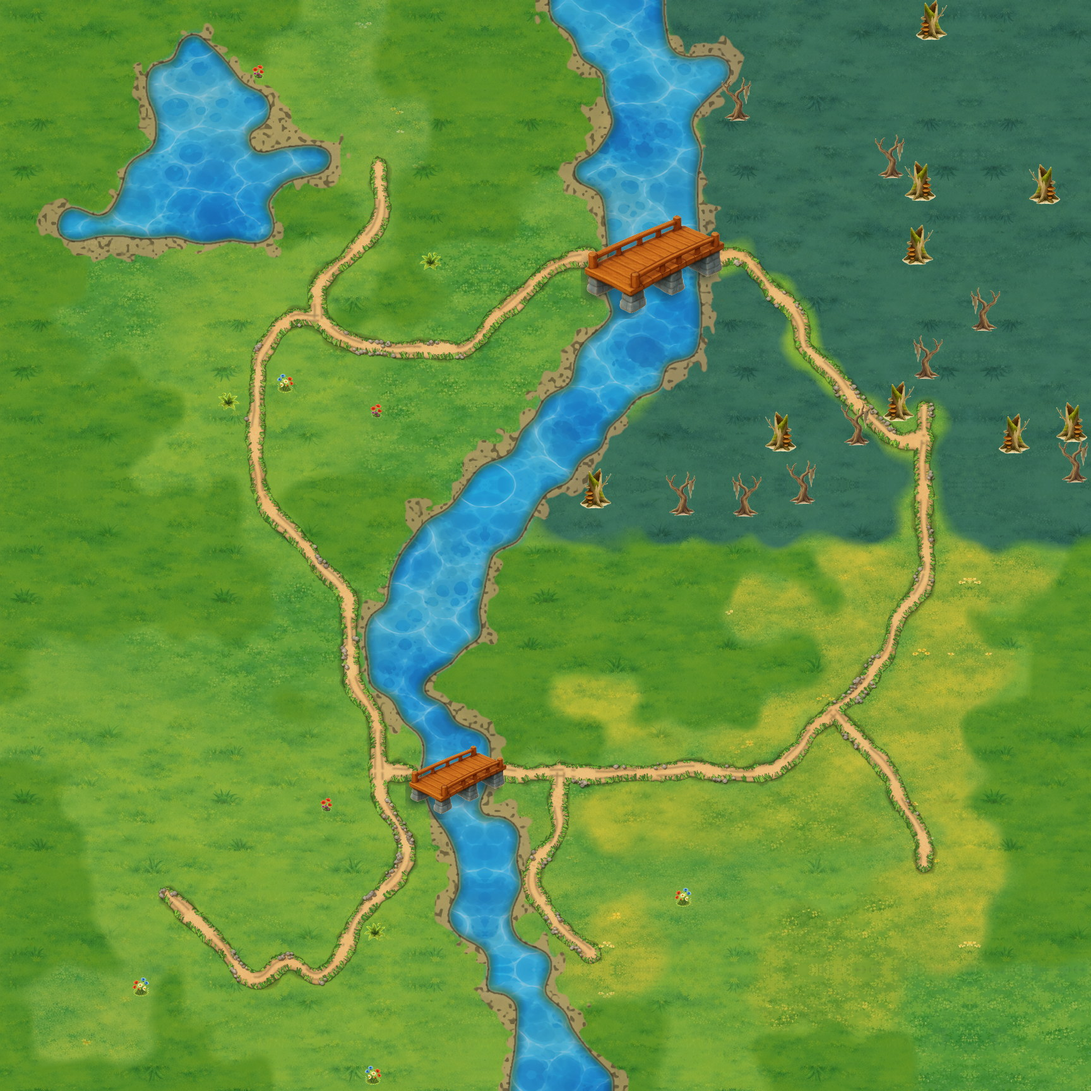
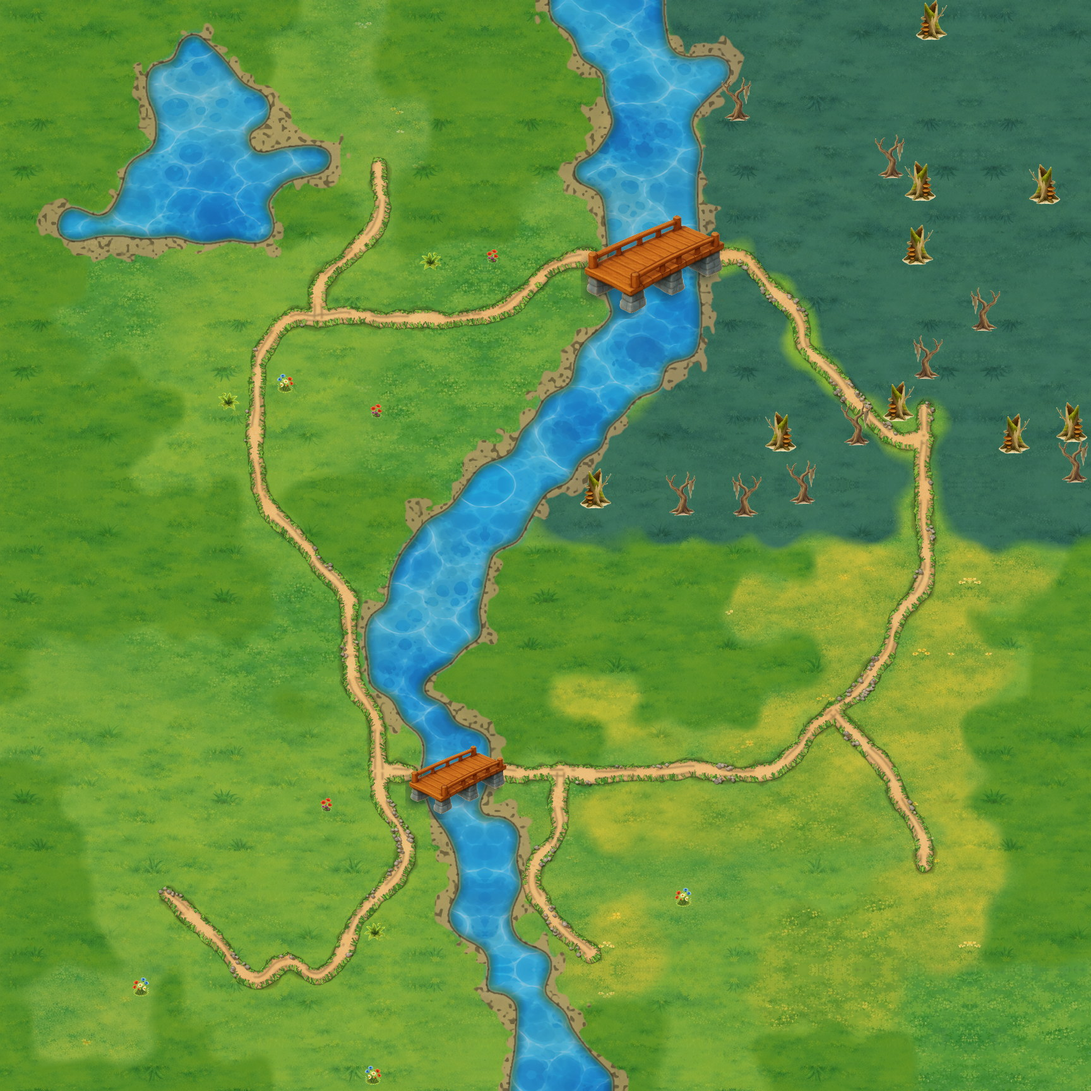
Polana: runda 18 planszy — silna straż pilnuje bogatej północy, przełęcz fortu średnia, północna łąka rozładowana
Trasa do fortu słaba → słaba → średnia, most północny (24,8) silny
z ostrogą skał (26–27,5–7) odcinającą zakątek wieży i artefaktu.
Bez wiatraka (18,11) i wozu (5,12); znaleziska odsunięte od zamku,
kupka za mostem rozbita. 59 obiektów co 10,1 pola, bez bitwy 24 %,
symulacja misji 1: 9/9, średnio dzień 18,3.

Claude-Session: https://claude.ai/code/session_01BGiaZhgTwDgLbUxsH7vpi6

diff --git a/src/data/plansza-teren-polana.ts b/src/data/plansza-teren-polana.ts
@@ -10,16 +10,16 @@
 export const TEREN = [
   'TTTTTTTTTT###TTTTT~~~~##############',
   'TTTTTT~TT###TTTTTTT~~~##############',
-  'TTTTT~~~.###TTTTTTTT~~~~############',
+  'TTTTT~~~T###TTTTTTTT~~~~############',
   'TTTTT~~~~.....TTTTTT~~~bbbb####bbbb#',
   'TTTTT~~~......TTTTTT~~~bbbb####bbbb#',
-  'TTTT~~~~~~~.=.TTTTT~~~~bbbbbbbbbbbb#',
-  'TTTT~~~~~TTT=TTTT..T~~~bbbbbbbbbb###',
-  'TT~~~~~~~TTT=TTTT...~~~bbbbbbbbbb###',
+  'TTTT~~~~~~~.=.TTTTT~~~~bbb##bbbbbbb#',
+  'TTTT~~~~~TTT=TTTT..T~~~bbb##bbbbb###',
+  'TT~~~~~~~TTT=TTTT...~~~bbb##bbbbb###',
   'TTT........=.T....=======bbbbbbbb###',
-  'TTT.......=.TTT..=..~~~bb=bbbbbbb###',
-  'TT.......==T.T..=...~~~bbb=bbbbbb###',
-  'TTT.....=..=====...~~~~bbb=bbbbbb###',
+  'TTT.......=......=..~~~bb=bbbbbbb###',
+  'TT.......========...~~~bbb=bbbbbb###',
+  'TTT.....=..........~~~~bbb=bbbbbb###',
   'TT.TT...=..........~~~bbbbb=bbbbb###',
   'TTTTTT..=.........~~~bbbbbbb=b=bb###',
   'TTTTT...=........~~~bbbbbbbbb==bb###',
@@ -27,7 +27,7 @@ export const TEREN = [
   'TTTTTTTT=TTTTTT~~~############=#####',
   'TTTTTTTT.=TTTT~~~#############=#####',
   'TTTTTTTTT.=TT~~~TTTTTTTTTTTjjj=jjjjT',
-  'TTTTTTTTT..=.~~~TTTTTTTTjjjTjj=jjjjT',
+  'TTTTTTTTT..=.~~~TTTTTTTTjjjjjj=jjjjT',
   'TTTTTTTTT..=~~~~TTTTTTTTjjjjj=jjTTTT',
   'T..........=~~~TTTTTTTTTTTTjj=jjjjTT',
   'T..........=~~TTTTjjjTTTTTTj=jjjjjTT',
@@ -79,8 +79,8 @@ export const ROZSTAWIENIE: Array<{
   klucz?: string;
 }> = [
   { x: 12, y: 33, rodzaj: 'kopalnia', strefa: 'dom', surowiec: 'jagoda' },
-  { x: 11, y: 27, rodzaj: 'surowiec', strefa: 'dom', surowiec: 'odlamek' },
-  { x: 11, y: 28, rodzaj: 'skrzynia', strefa: 'dom' },
+  { x: 13, y: 24, rodzaj: 'surowiec', strefa: 'dom', surowiec: 'odlamek' },
+  { x: 11, y: 24, rodzaj: 'skrzynia', strefa: 'dom' },
   { x: 5, y: 28, rodzaj: 'kopalnia', strefa: 'dom', surowiec: 'odlamek' },
   { x: 2, y: 21, rodzaj: 'skrzynia', strefa: 'dom' },
   { x: 8, y: 34, rodzaj: 'surowiec', strefa: 'dom', surowiec: 'pokeball' },
@@ -89,10 +89,10 @@ export const ROZSTAWIENIE: Array<{
   { x: 25, y: 20, rodzaj: 'kopalnia', strefa: 'pogranicze', surowiec: 'kamien' },
   { x: 8, y: 16, rodzaj: 'potwor', strefa: 'pogranicze', sila: 'slaby' },
   { x: 17, y: 26, rodzaj: 'potwor', strefa: 'pogranicze', sila: 'slaby' },
-  { x: 24, y: 8, rodzaj: 'potwor', strefa: 'wroga', sila: 'sredni' },
+  { x: 24, y: 8, rodzaj: 'potwor', strefa: 'wroga', sila: 'silny' },
   { x: 4, y: 32, rodzaj: 'potwor', strefa: 'dom', sila: 'slaby' },
   { x: 27, y: 20, rodzaj: 'potwor', strefa: 'pogranicze', sila: 'slaby' },
-  { x: 30, y: 16, rodzaj: 'potwor', strefa: 'wroga', sila: 'silny' },
+  { x: 30, y: 16, rodzaj: 'potwor', strefa: 'wroga', sila: 'sredni' },
   { x: 12, y: 7, rodzaj: 'potwor', strefa: 'pogranicze', sila: 'slaby' },
   { x: 31, y: 5, rodzaj: 'potwor', strefa: 'wroga', sila: 'sredni' },
   { x: 10, y: 4, rodzaj: 'kopalnia', strefa: 'pogranicze', surowiec: 'pokeball' },
@@ -100,24 +100,21 @@ export const ROZSTAWIENIE: Array<{
   { x: 12, y: 3, rodzaj: 'skrzynia', strefa: 'pogranicze' },
   { x: 6, y: 9, rodzaj: 'budynek', strefa: 'pogranicze', budynek: 'zrodlo' },
   { x: 3, y: 10, rodzaj: 'budynek', strefa: 'pogranicze', budynek: 'chatka' },
-  { x: 5, y: 12, rodzaj: 'budynek', strefa: 'pogranicze', budynek: 'woz' },
   { x: 5, y: 14, rodzaj: 'skrzynia', strefa: 'pogranicze' },
   { x: 4, y: 15, rodzaj: 'surowiec', strefa: 'pogranicze', surowiec: 'jagoda' },
   { x: 10, y: 13, rodzaj: 'budynek', strefa: 'pogranicze', budynek: 'oboz-treningowy' },
-  { x: 10, y: 11, rodzaj: 'skrzynia', strefa: 'pogranicze' },
   { x: 9, y: 12, rodzaj: 'surowiec', strefa: 'pogranicze', surowiec: 'odlamek' },
   { x: 15, y: 12, rodzaj: 'budynek', strefa: 'pogranicze', budynek: 'drzewo-wiedzy' },
   { x: 13, y: 15, rodzaj: 'budynek', strefa: 'pogranicze', budynek: 'gniazdo' },
-  { x: 15, y: 9, rodzaj: 'surowiec', strefa: 'pogranicze', surowiec: 'kamien' },
-  { x: 16, y: 9, rodzaj: 'skrzynia', strefa: 'pogranicze' },
-  { x: 18, y: 11, rodzaj: 'budynek', strefa: 'pogranicze', budynek: 'wiatrak' },
+  { x: 18, y: 6, rodzaj: 'skrzynia', strefa: 'pogranicze' },
+  { x: 17, y: 7, rodzaj: 'surowiec', strefa: 'pogranicze', surowiec: 'kamien' },
   { x: 19, y: 30, rodzaj: 'budynek', strefa: 'pogranicze', budynek: 'gniazdo' },
   { x: 18, y: 23, rodzaj: 'budynek', strefa: 'pogranicze', budynek: 'wieza-obserwacyjna' },
   { x: 25, y: 23, rodzaj: 'skrzynia', strefa: 'pogranicze' },
   { x: 25, y: 24, rodzaj: 'surowiec', strefa: 'pogranicze', surowiec: 'odlamek' },
   { x: 26, y: 27, rodzaj: 'jasnowidz', strefa: 'pogranicze' },
   { x: 31, y: 28, rodzaj: 'skrzynia', strefa: 'pogranicze' },
-  { x: 31, y: 29, rodzaj: 'artefakt', strefa: 'pogranicze' },
+  { x: 31, y: 29, rodzaj: 'surowiec', strefa: 'pogranicze', surowiec: 'jagoda' },
   { x: 32, y: 21, rodzaj: 'surowiec', strefa: 'pogranicze', surowiec: 'pokeball' },
   { x: 33, y: 21, rodzaj: 'surowiec', strefa: 'pogranicze', surowiec: 'jagoda' },
   { x: 31, y: 24, rodzaj: 'budynek', strefa: 'pogranicze', budynek: 'arena' },
@@ -128,12 +125,13 @@ export const ROZSTAWIENIE: Array<{
   { x: 26, y: 30, rodzaj: 'artefakt', strefa: 'pogranicze' },
   { x: 33, y: 19, rodzaj: 'budynek', strefa: 'pogranicze', budynek: 'ranczo' },
   { x: 25, y: 10, rodzaj: 'artefakt', strefa: 'wroga' },
-  { x: 24, y: 10, rodzaj: 'surowiec', strefa: 'wroga', surowiec: 'pokeball' },
-  { x: 25, y: 11, rodzaj: 'surowiec', strefa: 'wroga', surowiec: 'kamien' },
+  { x: 26, y: 12, rodzaj: 'surowiec', strefa: 'wroga', surowiec: 'pokeball' },
+  { x: 24, y: 12, rodzaj: 'surowiec', strefa: 'wroga', surowiec: 'kamien' },
   { x: 24, y: 15, rodzaj: 'budynek', strefa: 'wroga', budynek: 'ognisko' },
   { x: 28, y: 6, rodzaj: 'skrzynia', strefa: 'wroga' },
   { x: 29, y: 6, rodzaj: 'surowiec', strefa: 'wroga', surowiec: 'pokeball' },
   { x: 26, y: 14, rodzaj: 'budynek', strefa: 'wroga', budynek: 'chatka' },
+  { x: 24, y: 5, rodzaj: 'artefakt', strefa: 'wroga' },
   { x: 31, y: 3, rodzaj: 'kopalnia', strefa: 'wroga', surowiec: 'pokeball' },
   { x: 34, y: 3, rodzaj: 'artefakt', strefa: 'wroga' },
   { x: 33, y: 4, rodzaj: 'skrzynia', strefa: 'wroga' },

diff --git a/tools/mapy/polana.py b/tools/mapy/polana.py
@@ -68,6 +68,14 @@ dwiema skrzyniami i stosem; przy trakcie dwa surowce luzem. Środek północnej
 Kamieniołom pogranicza we wnęce lasu za strażą. Łąka za mostem to ubita
 ziemia (droga się opłaca) w innym, oliwkowym odcieniu; skały SE w dwóch
 masywach.
+
+Runda 18 (werdykt r7: wygrana ślepo, 25 TAK / 4 CZĘŚCIOWO — C3, E3, G1, G2).
+Trasa do fortu ma stopnie słaba → średnia: most (17, 26) słaby, przełęcz
+fortu (30, 16) ŚREDNIA. Most północny (24, 8) jest SILNY i pilnuje skarbca
+krainy wroga — zakątka (23–26, 3–6) z kamienną wieżą i artefaktem, zamkniętego
+od misy fortu ostrogą skał (26–27, 5–7); jedyne wejście leży w strefie tej
+straży. Środek północy bez drugiego wiatraka, wozu i stosu (15–16, 9);
+stos skrzynia + kamień w zatoczce przy moście (17–18, 6–7).
 """
 
 import math
@@ -583,6 +591,17 @@ def popraw_teren(g, mapa):
                 mapa[y][x] = '.'
     # …i skały nad plażą (9–11, 2) jednym blokiem, bez głazu w szczelinie.
     mapa[2][10] = '#'
+    # Runda 18 (E3): bez plam poniżej 6 × 6 — samotne pole łąki (8, 2)
+    # w lesie zarasta, kępka drzew (11–14, 9–10) na łące i samotne drzewa
+    # (27, 18–19) w ziemi pogranicza znikają.
+    mapa[2][8] = 'T'
+    for y in (9, 10):
+        for x in range(11, 15):
+            if mapa[y][x] == 'T':
+                mapa[y][x] = '.'
+    for y in (18, 19):
+        if mapa[y][27] == 'T':
+            mapa[y][27] = '.'
 
 
 def po_drogach(g, mapa):
@@ -613,7 +632,11 @@ PRZELECZ_DOMU_Y = 16
 #: (27–30, 2–4), który z przesmykiem (31, 5) zamyka róg NE, i grzbiet
 #: wschodni (33–35, 6–14) schodzący do masywu granicy. Pojedyncze kopce
 #: w misie fortu (25, 3), (27–28, 12–15), (28–29, 5), (32, 6–7) znikają.
-GRZBIETY_FORTU = [(27, 2, 30, 4), (33, 6, 35, 14)]
+GRZBIETY_FORTU = [(27, 2, 30, 4), (33, 6, 35, 14), (26, 5, 27, 7)]
+#: Runda 18 (C3): trzeci grzbiet (26–27, 5–7) to ostroga spod grzbietu
+#: północnego — odcina zakątek (23–26, 3–6) od misy fortu. Jedyne wejście,
+#: (23–25, 7), leży w strefie straży mostu północnego (24, 8): skarbiec
+#: bierze tylko ten, kto pobije SILNĄ straż (od mostu albo od fortu).
 MISA_FORTU = (23, 3, 34, 14)
 
 #: Runda 15 (B4, E2): polana w martwym masywie lasu na południowym wschodzie
@@ -724,10 +747,14 @@ PIERWSZY_EKRAN_DOM = [
     # Runda 16 (A2, G2): kamieniołom spod dachu zamku (9, 27) przeniesiony
     # do kieszeni SW za wolną słabą strażą (`KIESZEN_DOMU_SKARB`).
     ([(12, 33), (11, 33), (13, 33)], ('kopalnia', 'jagoda')),
-    ([(11, 27), (10, 28)], ('surowiec', 'odlamek')),
-    # Runda 12 (G2): skrzynia leżała na trakcie tuż przed mostem — teraz
-    # w stosie z odłamkami przy kopalni.
-    ([(11, 28), (10, 29)], ('skrzynia', None)),
+    # Runda 18 (G2): odłamek i skrzynia (11, 27–28) wchodziły w prawy domek
+    # zamku. Pola (14, 27–28) z werdyktu stykają się ze startem (`postaw_kadr`
+    # ich nie bierze), a (13–14, 30) leżą na dachu straganu sadu — stos
+    # stoi nad przyczółkiem mostu, po obu stronach traktu, 4 kroki od
+    # startu. Na wylocie doliny (9–10, 21) autopilot brał go za późno
+    # i misja 1 w symulacji spadała do 6/9 wygranych.
+    ([(13, 24), (13, 23)], ('surowiec', 'odlamek')),
+    ([(11, 24), (11, 23)], ('skrzynia', None)),
     # Runda 15 (A2, G1): kopalnia odłamków w dolinie, bez straży, za zamkiem
     # na końcu krótkiej odnogi traktu. Stos skrzynia + jagoda spod sadu
     # (14, 33–34) poszedł na zachodnią łąkę (`LAKA_POLNOCNA`).
@@ -787,7 +814,7 @@ STOS_POGRANICZA = [
 LAKA_POLNOCNA = [
     ([(6, 9), (5, 9)], ('budynek', 'zrodlo')),
     ([(3, 10), (3, 11)], ('budynek', 'chatka')),
-    ([(5, 12), (6, 12), (6, 11)], ('budynek', 'woz')),
+    # Runda 18 (G1): wóz (5, 12) odpadł — zachodnia łąka bez trzeciej budowli.
     ([(5, 14), (6, 14)], ('skrzynia', None)),
     ([(4, 15), (4, 14)], ('surowiec', 'jagoda')),
     ([(10, 13), (9, 13)], ('budynek', 'oboz-treningowy')),
@@ -795,16 +822,17 @@ LAKA_POLNOCNA = [
     # kosze, skrzynie i pokeballe (12, 12), (15, 14), (16, 14), (17–18,
     # 11–12) odpadły (dwa surowce poszły do doliny domu), zostają dwa stosy:
     # przy rozstajach (9–10, 11–12) i przy trakcie do mostu (15–16, 9).
-    ([(10, 11), (9, 11)], ('skrzynia', None)),
+    # Runda 18 (G1, F1): skrzynia z rozstajów (10, 11) poszła do pustej
+    # zatoczki przy moście północnym (`ZATOCZKA_MOSTU`).
     ([(9, 12), (10, 12)], ('surowiec', 'odlamek')),
     ([(15, 12), (15, 13)], ('budynek', 'drzewo-wiedzy')),
     ([(13, 15), (14, 15)], ('budynek', 'gniazdo')),
-    ([(15, 9), (15, 8)], ('surowiec', 'kamien')),
-    ([(16, 9), (16, 8)], ('skrzynia', None)),
-    # Runda 17 (B4): budynki 25–30 % — wiatrak na pustym brzegu łąki przy
-    # rzece (18, 11), trzy pola na wschód od drzewa wiedzy (na (17, 13)
-    # stał dach w dach z laboratorium).
-    ([(18, 11), (18, 12)], ('budynek', 'wiatrak')),
+    # Runda 18 (G1): stos przy trakcie (15–16, 9) i wiatrak (18, 11) —
+    # dubel wiatraka (30, 26) — odpadły; kamień leży w zatoczce przy moście.
+    # Zatoczka (17–19, 6–7): skrzynia z rozstajów i kamień — cel pustej
+    # łąki przy zejściu z mostu (F1), stos na dwie rzeczy (B2).
+    ([(18, 6), (18, 7)], ('skrzynia', None)),
+    ([(17, 7), (17, 6)], ('surowiec', 'kamien')),
 ]
 
 #: Runda 12: plaża nad jeziorem — kieszeń za strażą (12, 6).
@@ -821,9 +849,15 @@ PLAZA_SKARB = [
 #: 2–3, a nie pojedyncze pionki na łące (B2). Artefakt to ten, który stał
 #: w pierwszym ekranie.
 KRAINA_WROGA = [
+    # Runda 18 (G2): pokeball (24, 10) przy trakcie (26, 12) — kupka trzech
+    # rzeczy za mostem się rozpadła. Artefakt zostaje po stronie fortu:
+    # bez niego autopilot (`symulacja-misji`) nie bierze fortu za średnią
+    # przełęczą przed dniem 32 przy co trzecim starterze.
     ([(25, 9), (25, 10), (26, 9)], ('artefakt', None)),
-    ([(24, 10), (24, 11)], ('surowiec', 'pokeball')),
-    ([(25, 11), (26, 10), (26, 11)], ('surowiec', 'kamien')),
+    ([(26, 12), (27, 11)], ('surowiec', 'pokeball')),
+    # Runda 18 (G2): kamień spod artefaktu (25, 11) na (24, 12) — jajo
+    # artefaktu stało na kamieniach i czytało się jako jedna kupka.
+    ([(24, 12), (23, 12), (25, 12)], ('surowiec', 'kamien')),
     # Runda 17 (B4): skrzynia (26, 6) odpadła — skrzynie ≤ 20 %, a pod
     # grzbietem nie stoją już trzy rzeczy w jednym rzędzie.
     # Runda 17 (C3, F1): ognisko spod ślepej odnogi (24, 5) zrobiło miejsce
@@ -844,6 +878,13 @@ KRAINA_WROGA = [
     # z pokeballami; chatka na pustej ciemnej łące pod stosem artefaktu.
     ([(29, 6), (28, 7)], ('surowiec', 'pokeball')),
     ([(26, 14), (25, 13)], ('budynek', 'chatka')),
+]
+
+#: Runda 18 (C3): skarbiec za silną strażą mostu północnego — zakątek
+#: (23–26, 3–6) za ostrogą skał: kamienna wieża (stawiana na końcu `rozstaw`)
+#: i artefakt (z końca odnogi SE).
+SKARBIEC_WROGA = [
+    ([(24, 5), (23, 5), (24, 4)], ('artefakt', None)),
 ]
 
 #: Runda 12: róg NE (31–35, 1–5) za skałami — kieszeń za strażą (31, 5).
@@ -892,7 +933,9 @@ JASNOWIDZ = [(26, 27), (25, 27), (26, 26)]
 #: Runda 12 (F1): koniec południowej odnogi drogi — skrzynia i stos.
 KONIEC_ODNOGI = [
     ([(31, 28), (31, 29), (32, 28)], ('skrzynia', None)),
-    ([(31, 29), (32, 29), (31, 30)], ('artefakt', None)),
+    # Runda 18 (C3): artefakt z końca odnogi (31, 29) poszedł do skarbca
+    # za silną strażą (`SKARBIEC_WROGA`) — pogranicze SE ma drugi na polanie.
+    ([(31, 29), (32, 29), (31, 30)], ('surowiec', 'jagoda')),
 ]
 
 
@@ -962,15 +1005,19 @@ def rozstaw(g):
     # Przełęcz fortu: SILNA straż na trakcie — fort jest ostatnią, najdroższą
     # bitwą (C2, C3).
     # Kieszenie: plaża (słaba) i róg NE (średnia) — nagroda za cały zakątek.
+    # Runda 18 (C3, C2): siły zamienione — trakt do fortu idzie słaba (17, 26)
+    # → ŚREDNIA (30, 16), a SILNY most północny (24, 8) pilnuje skarbca
+    # (`SKARBIEC_WROGA`: kamienna wieża i artefakt za ostrogą skał). Przy
+    # średnim moście najbogatsza kraina leżała za łatwiejszą walką niż fort.
     straz(STRAZ_PRZELECZY_DOMU, 'slaby')
     straz(STRAZ_MOSTU, 'slaby')
-    straz(STRAZ_BRODU, 'sredni')
+    straz(STRAZ_BRODU, 'silny')
     straz(STRAZ_KIESZENI_DOMU, 'slaby')
     # Runda 17: (27, 20) zostaje SŁABA, choć krytyk r6 chciał średniej —
     # średnia odcina drugi kamieniołom i `symulacja-misji` misji 1 spada do
     # 2–4/6 wygranych przed dniem 32 (bez kamienia nie ma rozbudowy).
     straz(STRAZ_KAMIENIOLOMU, 'slaby')
-    straz(STRAZ_PRZELECZY_FORTU, 'silny')
+    straz(STRAZ_PRZELECZY_FORTU, 'sredni')
     straz(STRAZ_PLAZY, 'slaby')
     straz(STRAZ_ROGU, 'sredni')
 
@@ -1034,7 +1081,7 @@ def rozstaw(g):
     # Za brodem i przy forcie: artefakt, stosy po 2–3, skrzynie, ognisko;
     # w rogu NE kieszeń za średnią strażą z kopalnią złota wroga (runda 13:
     # każda straż krainy stoi w szyjce).
-    for miejsca, wpis in KRAINA_WROGA + ROG_SKARB:
+    for miejsca, wpis in KRAINA_WROGA + SKARBIEC_WROGA + ROG_SKARB:
         postaw_kadr(g, miejsca, wpis)
     g.zajete += ROG_NE
     # Runda 14 (G2): pagoda na stałym miejscu przy trakcie — z losowania

diff --git a/STAN.md b/STAN.md
@@ -3172,6 +3172,48 @@ Nierozwiązane: C2 na trasie południowej nadal słaba → silna (średnia jest
 na północnej); silną przełęcz da się obejść średnim mostem; dwa wiatraki,
 dwa gniazda i dwa domki na drzewie (14 rodzajów budowli na 16 sztuk).
 
+### Runda 18 (2026-10-08)
+
+Werdykt r7 (`tools/blind/r7-polana-werdykt.md`): wygrana ślepo, 25 TAK /
+4 CZĘŚCIOWO (C3, E3, G1, G2) / 0 NIE. Zmiany tylko w `tools/mapy/polana.py`:
+
+- C3/C2 (zmiana 1): siły zamienione — przełęcz fortu (30, 16) ŚREDNIA, most
+  północny (24, 8) SILNY. Trasa do fortu: słaba (17, 26) → słaba (27, 20,
+  wnęka kamieniołomu, po drodze) → średnia (30, 16). Żeby silna pilnowała
+  czegoś wyłącznego, ostroga skał (26–27, 5–7) (trzeci `GRZBIETY_FORTU`)
+  odcina zakątek (23–26, 3–6) od misy fortu; jedyne wejście (23–25, 7) leży
+  w strefie straży (24, 8). W zakątku kamienna wieża (25, 3) i artefakt
+  (24, 5) (`SKARBIEC_WROGA`) — artefakt przyszedł z końca odnogi SE (31, 29),
+  tam teraz jagoda. Artefakt (25, 10) zostaje po stronie fortu: bez niego
+  autopilot przy starterze 0 brał przełęcz dnia 19, a fortu już nie (6/9).
+- G1 (zmiana 2): odpadły wiatrak (18, 11), wóz (5, 12) i skrzynia (16, 9);
+  skrzynia z rozstajów (10, 11) → zatoczka przy moście (18, 6), kamień
+  (15, 9) obok niej (17, 7).
+- G2/E3 (zmiana 3): pokeball (24, 10) → (26, 12), kamień (25, 11) → (24, 12)
+  (jajo artefaktu stało na kamieniach). Odłamek i skrzynia spod domku zamku
+  (11, 27–28) → nad przyczółek mostu, po obu stronach traktu: odłamek
+  (13, 24), skrzynia (11, 24). Pola z werdyktu (14, 27–28) stykają się ze
+  startem (`postaw_kadr` ich nie bierze, a (14, 27) to flaga bohatera);
+  (13–14, 30) leżały na dachu straganu sadu; (9–10, 21) na wylocie doliny
+  — autopilot brał je za późno, symulacja 6/9, dzień 28. Teren: (8, 2) → las,
+  kępka (11–14, 9–10) → łąka (trakt idzie teraz prosto wierszem 10),
+  (27, 18–19) → ziemia pogranicza.
+
+Liczby: 59 obiektów, co 10,1 pola, strefy dom 9 / pogranicze 34 / wróg 16,
+pasy [5,10,19,14,11], fort 25/35, straże 8 (5 słabych, 2 średnie, 1 silna),
+bez bitwy 24 %. Udziały: surowce 24 %, budynki z jasnowidzem 25,4 %,
+skrzynie 18,6 %, kopalnie 10,2 %, artefakty 8,5 %, straże 13,6 %.
+Sondy: `probe-mapy` i `probe-osiagalnosc` Polana bez ŹLE, `probe-misja`
+WSZYSTKO OK, `tsc` czysty; `symulacja-misji` misja 1: 9/9 wygranych,
+średnio dzień 18,3 (15/15/25 wg startera) — autopilot idzie południem
+(17, 26) → (27, 20) → (30, 16) → róg NE (31, 5) → fort, silnej nie rusza.
+Nierozwiązane: G1 — najgęstsze okno 21 × 18 ma 22 obiekty (środek północy
+(8–28, 3–20); było 23), próg „≤ 16 na ekran" jest przy gęstości co 10 pól
+nieosiągalny (średnio ~17 na okno); budynki 25,4 % i kopalnie 10,2 % na
+granicy widełek, więc dalszego odchudzania nie było (chatka (26, 14) to
+dubel (3, 10), ale bez niej budynki < 25 %). Most południowy i (27, 20) to
+dwie słabe z rzędu — stopień średni dopiero na przełęczy fortu.
+
 ## Dwie Doliny — pętla plansz 2026-10
 
 Runda 3 po werdykcie `tools/blind/r2-dwie-doliny-werdykt.md` (wygrana ślepo,
